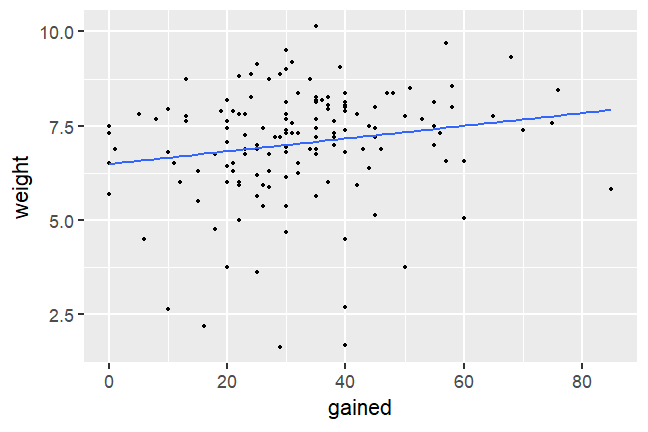
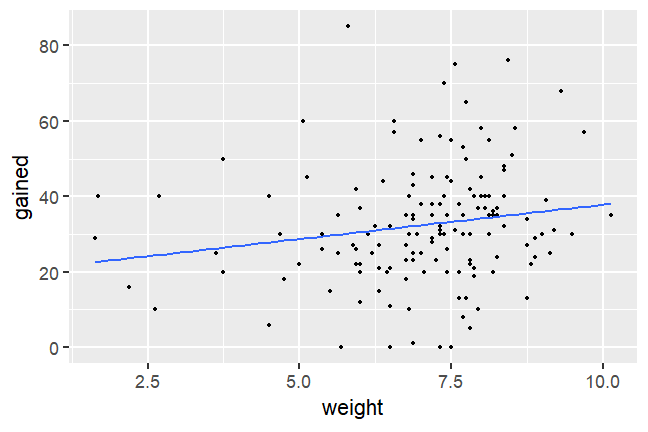
flip axes for weight and gained

diff --git a/ascb/slides.html b/ascb/slides.html
@@ -643,8 +643,8 @@ ggplot(births) +
 
 ```r
 ggplot(births) +
-  aes(x = gained, 
-      y = weight) +
+  aes(x = weight, 
+      y = gained) +
   geom_point() 
 ```
 
@@ -690,8 +690,8 @@ layers...
 
 ```r
 ggplot(births) +
-  aes(x = gained, 
-      y = weight) +
+  aes(x = weight, 
+      y = gained) +
   geom_point()  +
   geom_smooth()
 ```
@@ -727,9 +727,9 @@ We can set the smoothing method to be _lm_ (linear model).
 
 ```r
 ggplot(births) +
-  aes(x = gained, 
-      y = weight) +
-  geom_point()  +
+  aes(x = weight, 
+      y = gained) +
+  geom_point()   +
   geom_smooth(method = "lm")
 ```
 
@@ -764,9 +764,9 @@ We can set _se_ (standard error) to FALSE
 
 ```r
 ggplot(births) +
-  aes(x = gained, 
-      y = weight) +
-  geom_point() +
+  aes(x = weight, 
+      y = gained) +
+  geom_point()  +
   geom_smooth(method = "lm", 
               se = FALSE)
 ```
@@ -869,11 +869,11 @@ ggplot(births) +
 
 ```r
 ggplot(births) +
-  aes(x = gained, 
-      y = weight) +
+  aes(x = weight, 
+      y = gained) +
   geom_point() +
-  labs(x = "Weight Gained by the Mother",
-       y = "Birth Weight of the Baby",
+  labs(x = "Birth Weight of the Baby",
+       y = "Weight Gained by the Mother",
        title = "Relationship between Mother's and Baby's Weight",
        caption = "Based on a random sample of 100 births in North Carolina") 
 ```
